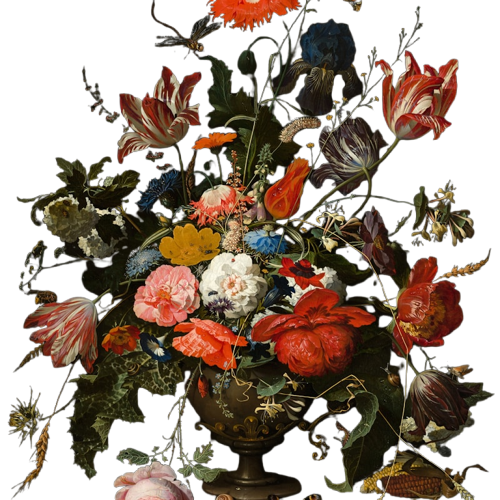
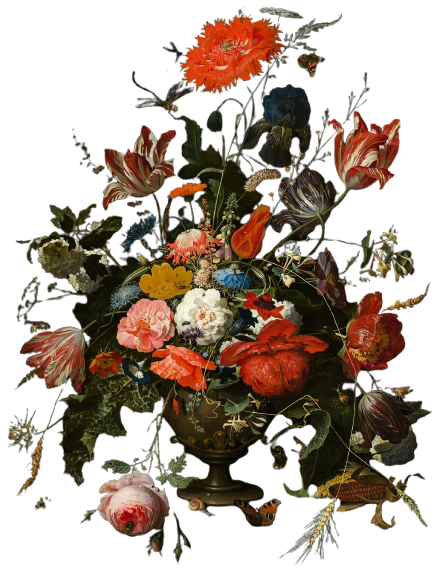
Fix product images: reprocess with full aspect ratio, add watches-royal-oak
Replaced all processed images using w=1200 (no forced crop) so subjects
like cars, jets, and yachts are no longer cut off. Added watches-royal-oak.png
which succeeded on the second run, and updated products.ts to use local path.

diff --git a/src/data/products.ts b/src/data/products.ts
@@ -49,7 +49,7 @@ const PRODUCTS: Product[] = [
     name: 'Royal Oak 15500ST',
     brand: 'Audemars Piguet',
     price: '$29,900',
-    image: 'https://images.unsplash.com/photo-1523170335258-f5ed11844a49?w=800&h=800&fit=crop',
+    image: '/images/watches-royal-oak.png',
     description: 'Iconic 41mm luxury sports watch with octagonal bezel, integrated bracelet, and calibre 4302 movement.',
     category: 'Watches',
   },
